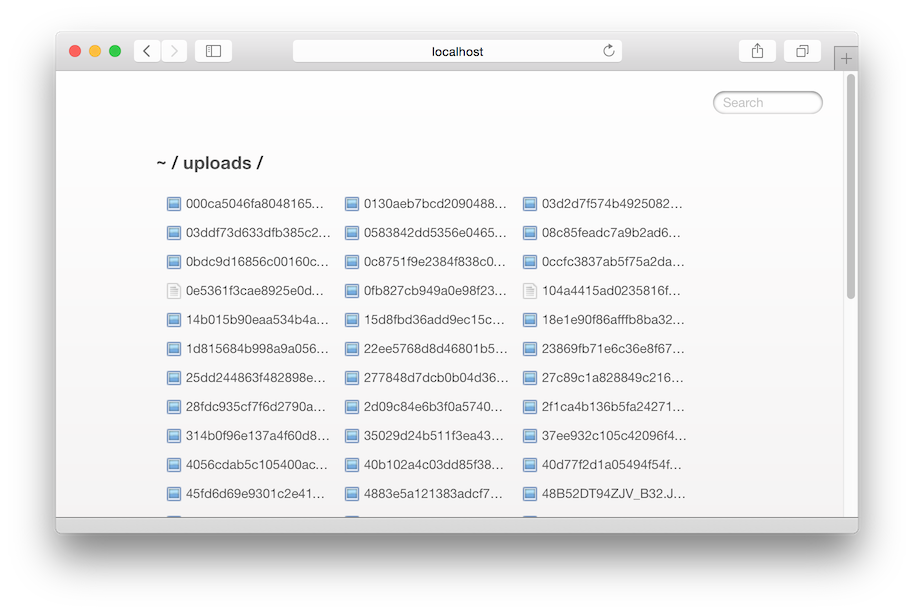
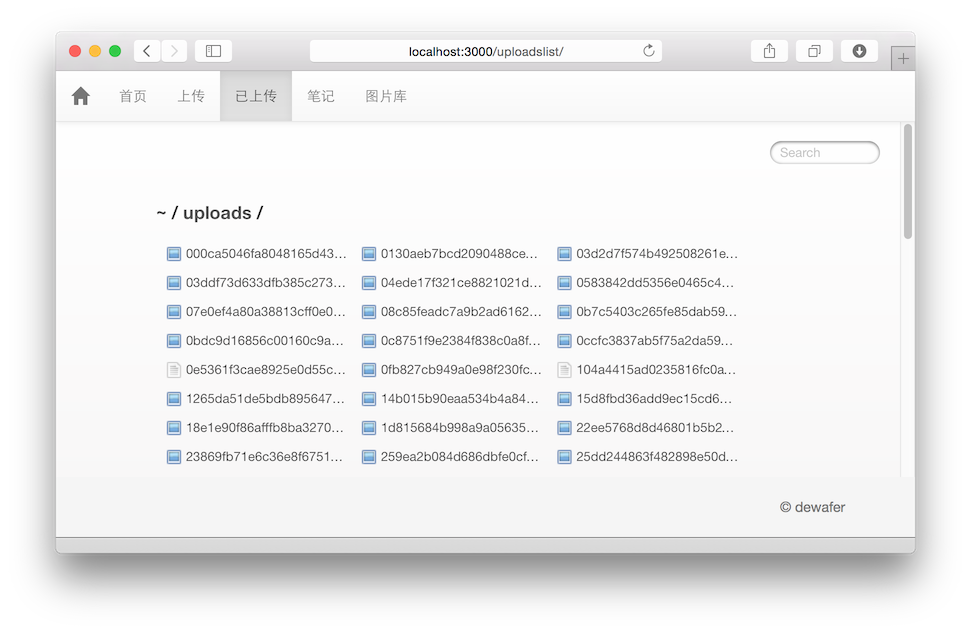
已发布至bluemix上

Changed region(s): [[0.0306, 0.062, 0.9497, 0.8989], [0.7965, 0.7749, 0.8884, 0.8059], [0.1838, 0.248, 0.2757, 0.279]]

diff --git a/README.md b/README.md
@@ -39,5 +39,10 @@
 
 ## 功能简介
 
-请参阅docs目录中的[APP的功能简介卷轴.md](./docs/APP的功能简介卷轴.md)文档。
+> ** 已发布至bluemix云上，快使用下面的链接来访问吧！ **  
+> [http://appnext.mybluemix.net](http://appnext.mybluemix.net)
+
+
+更具体的说明，请参阅docs目录中的[APP的功能简介卷轴.md](./docs/APP的功能简介卷轴.md)文档。
+
 

diff --git a/docs/APP的功能简介卷轴.md b/docs/APP的功能简介卷轴.md
@@ -1,5 +1,11 @@
 # APP的功能简介卷轴
 
+2015年5月8日更新
+
+* 使用bootstrap美化前端
+* 发布至bluemix云上，现在可以通过[appnext.mybluemix.net](http://appnext.mybluemix.net)实时访问本app的server端啦！
+
+
 2015年4月28日更新
 
 本APP开发到现在，大致能跑的功能如下：
